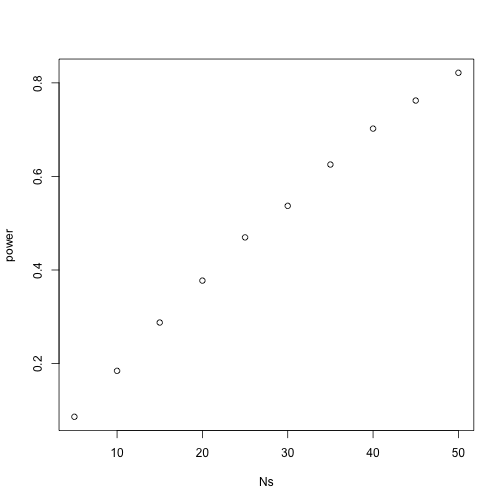
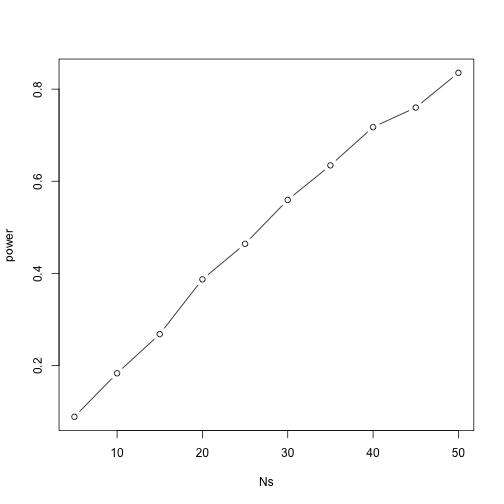
adding power_calculations to book

diff --git a/pages/power_calculations.md b/pages/power_calculations.md
@@ -18,8 +18,8 @@ We have used the example of the effects of two different diets on the weight of 
 ```r
 library(downloader)
 url<-"https://raw.githubusercontent.com/genomicsclass/dagdata/master/inst/extdata/mice_pheno.csv"
-filename <- tempfile()
-download(url,destfile=filename)
+filename <- "mice_pheno.csv"
+if (!file.exists(filename)) download(url,destfile=filename)
 dat <- read.csv(filename)
 hfPopulation <- dat[dat$Sex=="F" & dat$Diet=="hf",3]
 controlPopulation <- dat[dat$Sex=="F" & dat$Diet=="chow",3]
@@ -90,61 +90,68 @@ alpha <- 0.05
 
 What is my power with this particular data? We will compute this probability by re-running the exercise many times and calculating the proportion of times reject. Specifically, we will run 
 
+
 ```r
-B <- 10000
+B <- 2000
 ```
+
 simulations.
 
 
 ```r
-reject <- function(N,alpha=0.05){
+reject <- function(N, alpha=0.05){
    hf <- sample(hfPopulation,N) 
    control <- sample(controlPopulation,N)
    pval <- t.test(hf,control)$p.value
-   ifelse(pval < alpha,1,0)
+   pval < alpha
 }
 rejections <- replicate(B,reject(N))
 ```
-Our power is just the proportion of times we correctly reject. So with  $N=12$ our power is only: 
+
+Our power is just the proportion of times we correctly reject. So with  $$N=12$$ our power is only: 
+
 
 ```r
 mean(rejections)
 ```
 
 ```
-## [1] 0.2254
+## [1] 0.2145
 ```
 
 For those that were confused as to why the t-test was rejecting when we knew the null was false, this explains. To guard against false posties at the 0.05 level, we had to be this careful and ended up with making a type II error.
 
 Let's see how power improves with N:
 
+
 ```r
-Ns <- seq(5,50,5)
+Ns <- seq(5, 50, 5)
 power <- sapply(Ns,function(N){
-  rejections <- replicate(B,reject(N))
+  rejections <- replicate(B, reject(N))
   mean(rejections)
   })
 ```
+
 Not surprisingly power increases with N:
 
+
 ```r
-plot(Ns,power)
+plot(Ns, power, type="b")
 ```
 
 ![plot of chunk unnamed-chunk-10](figure/power_calculations-unnamed-chunk-10-1.png) 
 
-Similarly if we change the level `alpha` at which we reject, power changes. The smaller I want the chance of type I error to be, the less power I will have. We can see this by writing similar code but keeping $N$ fixed and considering several values of `alpha`
+Similarly if we change the level `alpha` at which we reject, power changes. The smaller I want the chance of type I error to be, the less power I will have. We can see this by writing similar code but keeping $$N$$ fixed and considering several values of `alpha`
 
 
 ```r
-N<-30
+N <- 30
 alphas <- c(0.1,0.05,0.01,0.001,0.0001)
 power <- sapply(alphas,function(alpha){
-   rejections <- replicate(B,reject(N,alpha=alpha))
+  rejections <- replicate(B,reject(N,alpha=alpha))
   mean(rejections)
 })
-plot(log10(alphas),power,xlab="log (base 10) alpha")
+plot(log10(alphas), power, xlab="log (base 10) alpha", type="b")
 ```
 
 ![plot of chunk unnamed-chunk-11](figure/power_calculations-unnamed-chunk-11-1.png) 
@@ -152,7 +159,3 @@ plot(log10(alphas),power,xlab="log (base 10) alpha")
 Note that there is no "right"" power or "right" alpha level. But it is important that you understand what each means.
 
 <b>Optional homework</b> Create a plot with curves of power versus N. Show several curves in the same plot with color representing alpha level.
-
-
-
-
